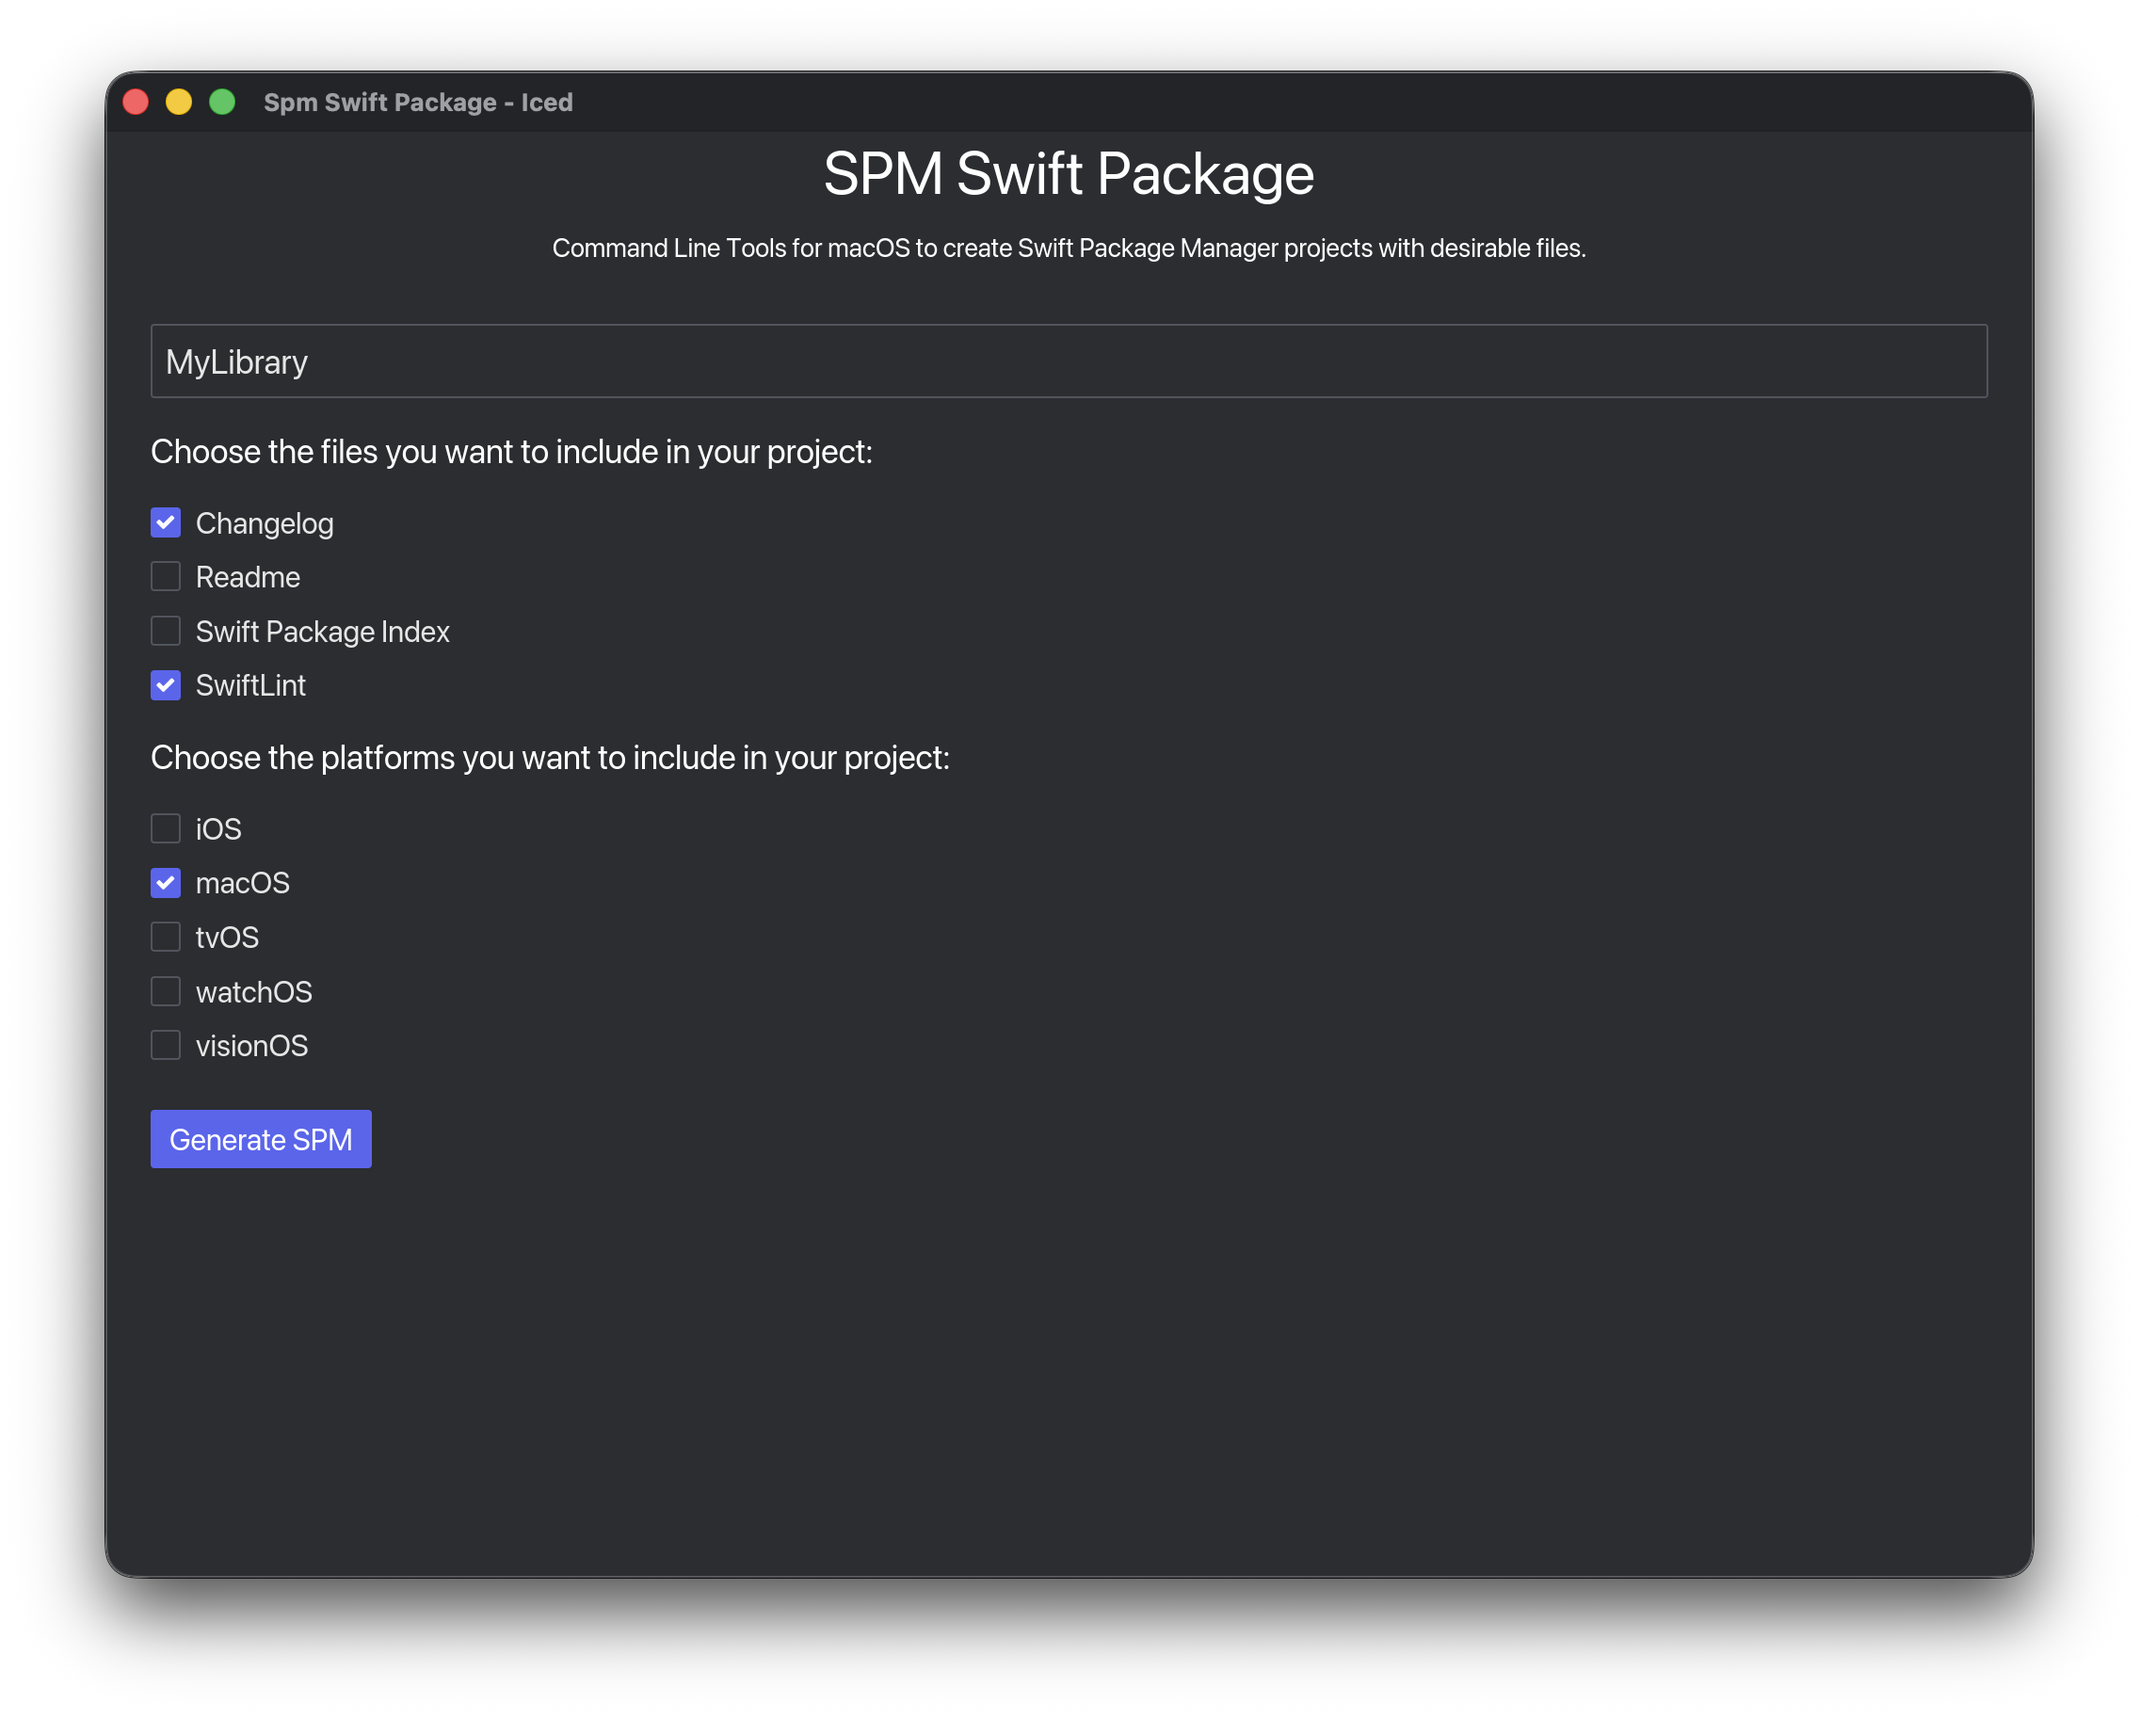
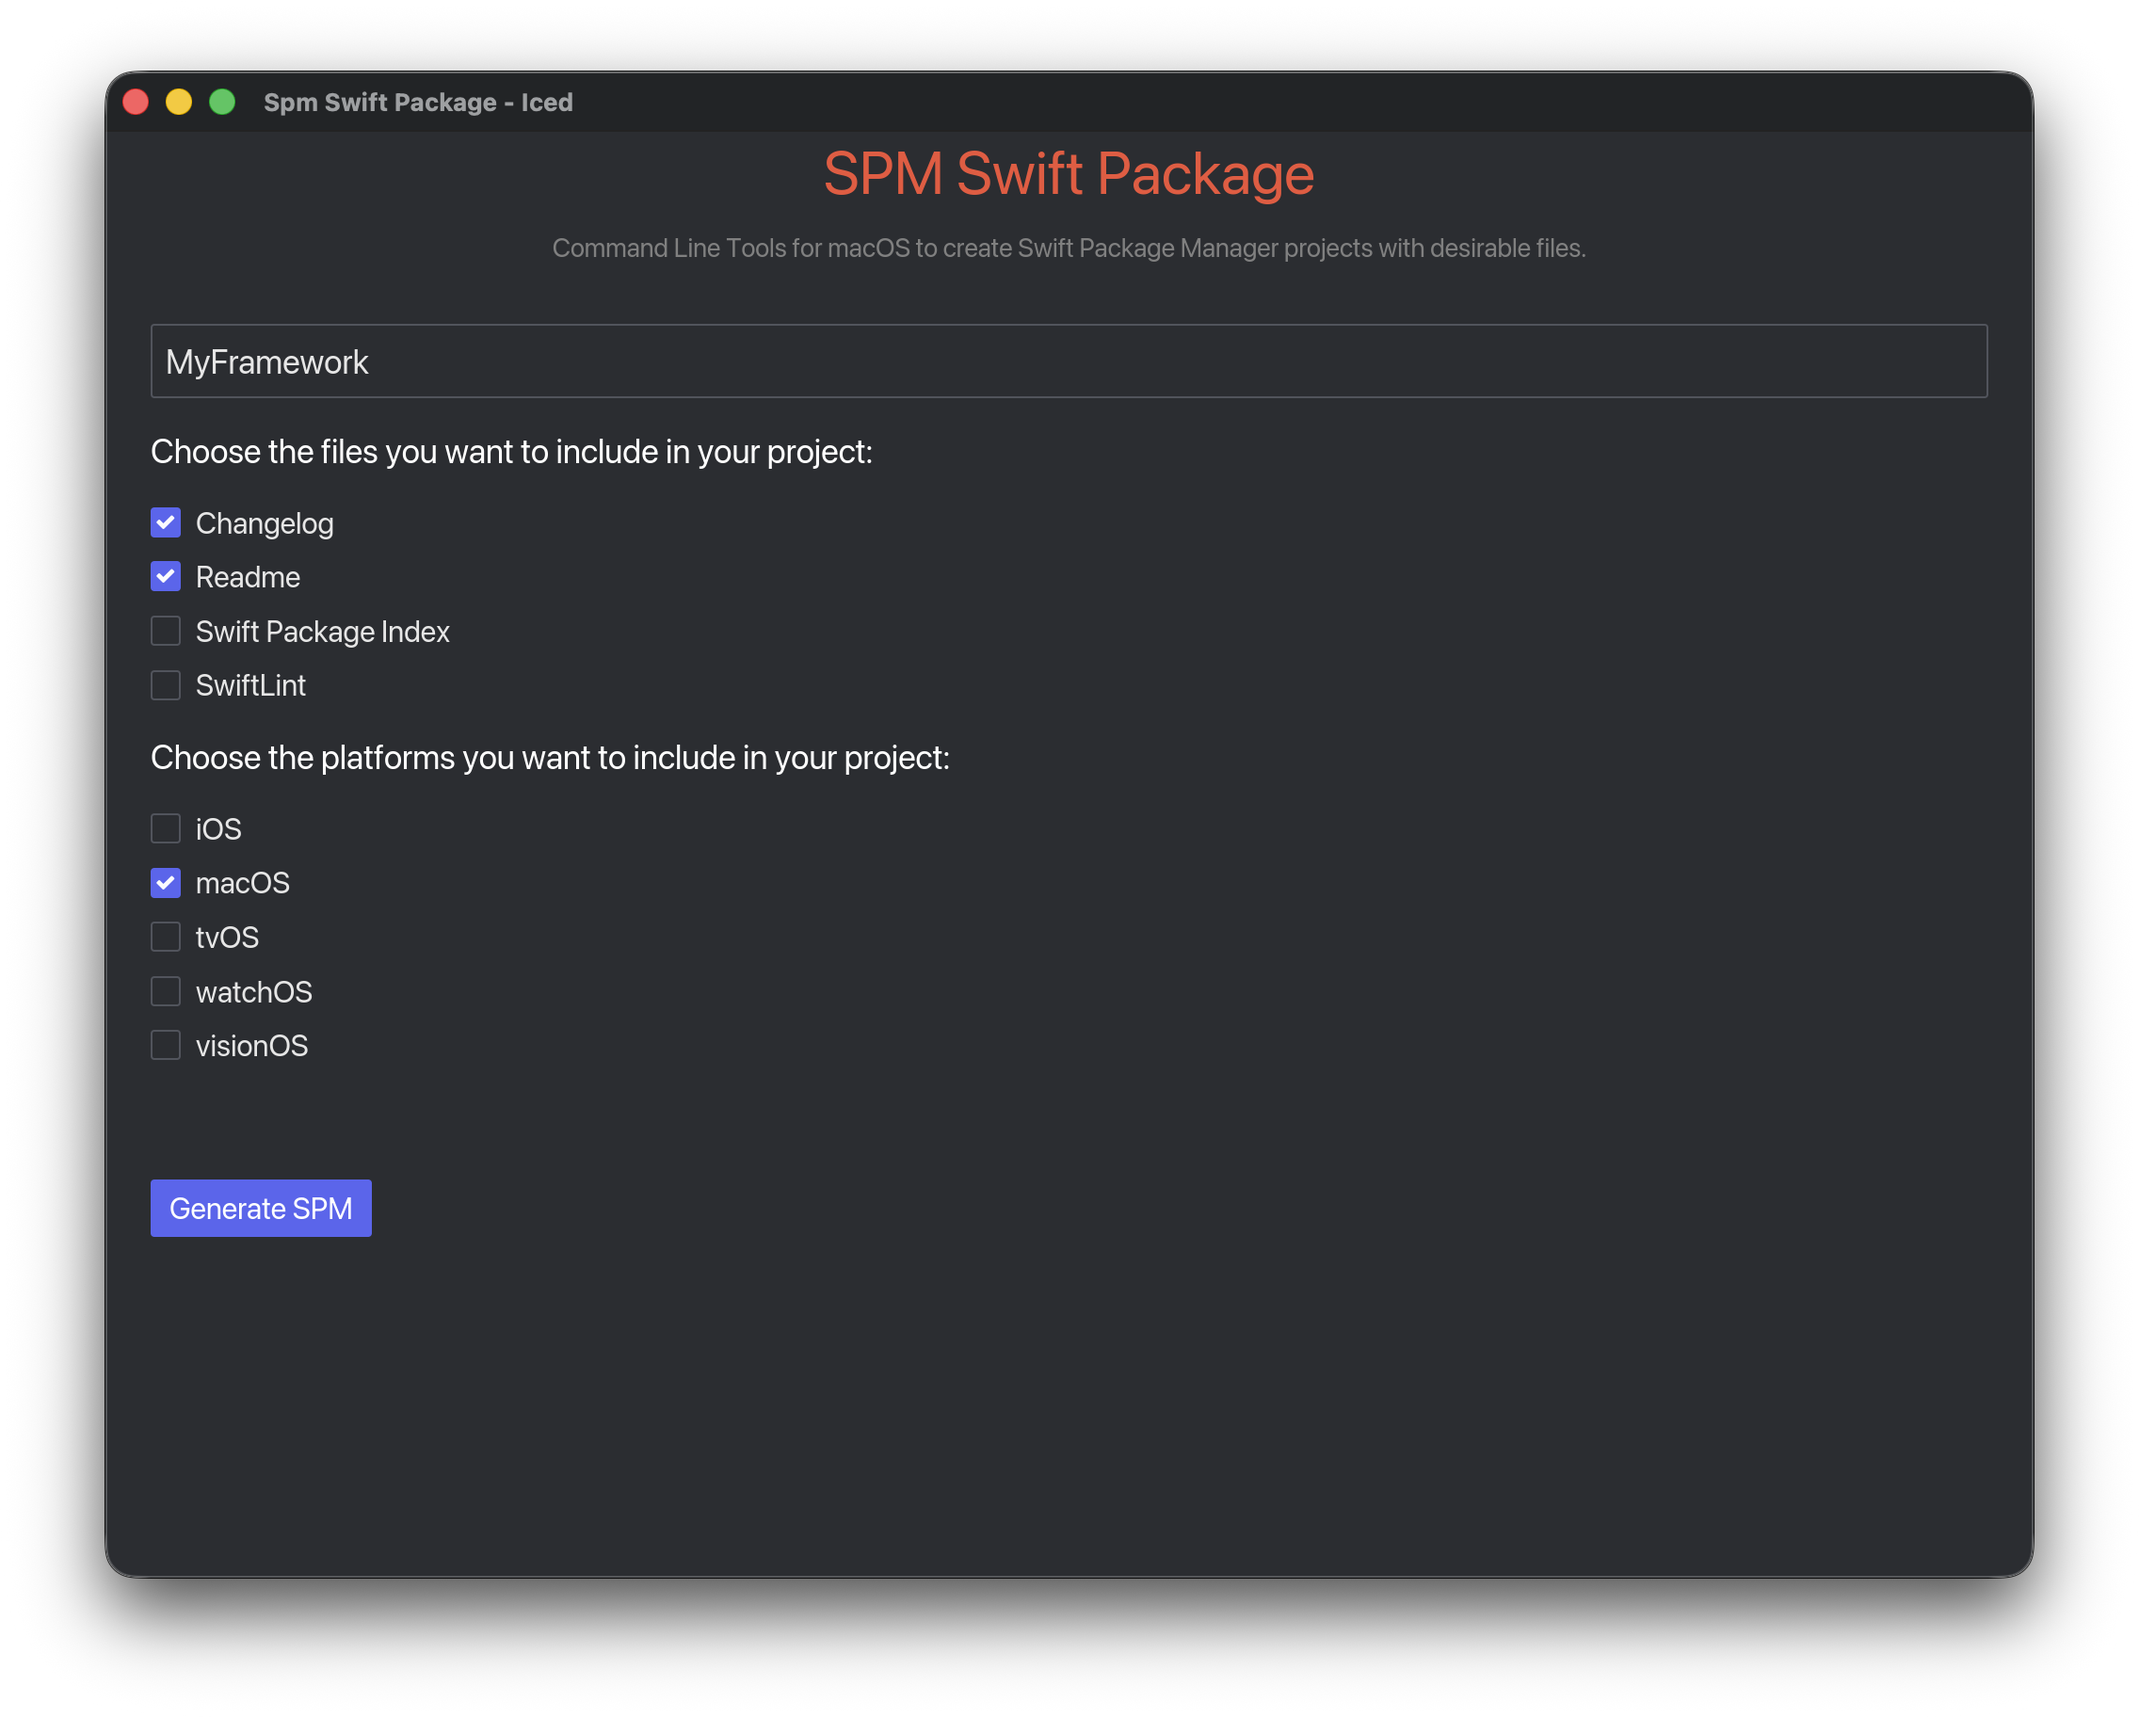
fix: #198 (#199)

diff --git a/crates/cli/src/ui/spm_view.rs b/crates/cli/src/ui/spm_view.rs
@@ -1,4 +1,5 @@
 use crate::domain::builder::spm_builder::*;
+use crate::utils::theme_colors::*;
 use iced::widget::{center_x, checkbox, column, text};
 use iced::{Color, Element};
 
@@ -185,12 +186,17 @@ impl SpmView {
 	/// Returns the header/title section view
 	fn header_view(&self) -> AppElement<'_> {
 		column![
-			center_x(text("SPM Swift Package").color(Color::WHITE).size(32)).height(20),
+			center_x(
+				text("SPM Swift Package")
+					.color(ThemeColors::ORANGE)
+					.size(32)
+			)
+			.height(20),
 			center_x(
 				text(
 					"Command Line Tools for macOS to create Swift Package Manager projects with desirable files."
 				)
-				.color(Color::WHITE)
+				.color(ThemeColors::GRAY)
 				.size(14)
 			)
 			.padding(16),

diff --git a/crates/cli/src/presentation/header.rs b/crates/cli/src/presentation/header.rs
@@ -1,5 +1,6 @@
+use crate::utils::theme_colors::*;
 use clap::Command;
-use colored::{Color, Colorize};
+use colored::Colorize;
 
 pub const VERSION: &str = env!("CARGO_PKG_VERSION");
 
@@ -9,17 +10,11 @@ impl Header {
 	pub fn show() -> String {
 		Self::check_version();
 
-		let orange = Color::TrueColor {
-			r: 240,
-			g: 81,
-			b: 56,
-		};
-
 		format!(
 			"\n{}\n\
              🚀 You can create your Swift Package via the command line 🔨\n\
              v{}\n",
-			"SPM Swift Package".color(orange),
+			"SPM Swift Package".color(ThemeColors::ORANGE_TERM),
 			VERSION
 		)
 	}

diff --git a/crates/cli/src/utils/theme_colors.rs b/crates/cli/src/utils/theme_colors.rs
@@ -1,0 +1,24 @@
+use colored::Color as TermColor;
+use iced::Color as IcedColor;
+
+/// Centralized color palette used for both Iced UI and colored terminal output
+pub struct ThemeColors;
+
+impl ThemeColors {
+	// ICED COLORS
+
+	/// Hex: `#F05138`
+	pub const ORANGE: IcedColor = IcedColor::from_rgb8(240, 81, 56);
+
+	/// Hex: `#808080`
+	pub const GRAY: IcedColor = IcedColor::from_rgb8(128, 128, 128);
+
+	// TERMINAL COLORS
+
+	/// Terminal equivalent of `ORANGE`
+	pub const ORANGE_TERM: TermColor = TermColor::TrueColor {
+		r: 240,
+		g: 81,
+		b: 56,
+	};
+}

diff --git a/crates/cli/src/main.rs b/crates/cli/src/main.rs
@@ -1,6 +1,7 @@
 mod domain;
 mod presentation;
 mod ui;
+mod utils;
 
 use clap::{Parser, Subcommand};
 use presentation::cli_controller::CliController;

diff --git a/crates/cli/src/lib.rs b/crates/cli/src/lib.rs
@@ -1,3 +1,4 @@
 pub mod domain;
 pub mod presentation;
 pub mod ui;
+pub mod utils;

diff --git a/crates/cli/src/utils/mod.rs b/crates/cli/src/utils/mod.rs
@@ -1,0 +1,1 @@
+pub mod theme_colors;

diff --git a/README.md b/README.md
@@ -1,5 +1,5 @@
 <p align="center">
-  <img src="./assets/icon.webp" width="300" />
+  <img src="https://raw.githubusercontent.com/heroesofcode/spm-swift-package/refs/heads/main/assets/icon.webp" width="300" />
   <br>
 
   <a href="https://github.com/heroesofcode/spm-swift-package/releases">
@@ -49,7 +49,7 @@ brew install heroesofcode/taps/spm-swift-package
 
 ## Usage
 
-#### Run cli
+#### Run CLI
 
 ```sh
 spm-swift-package
